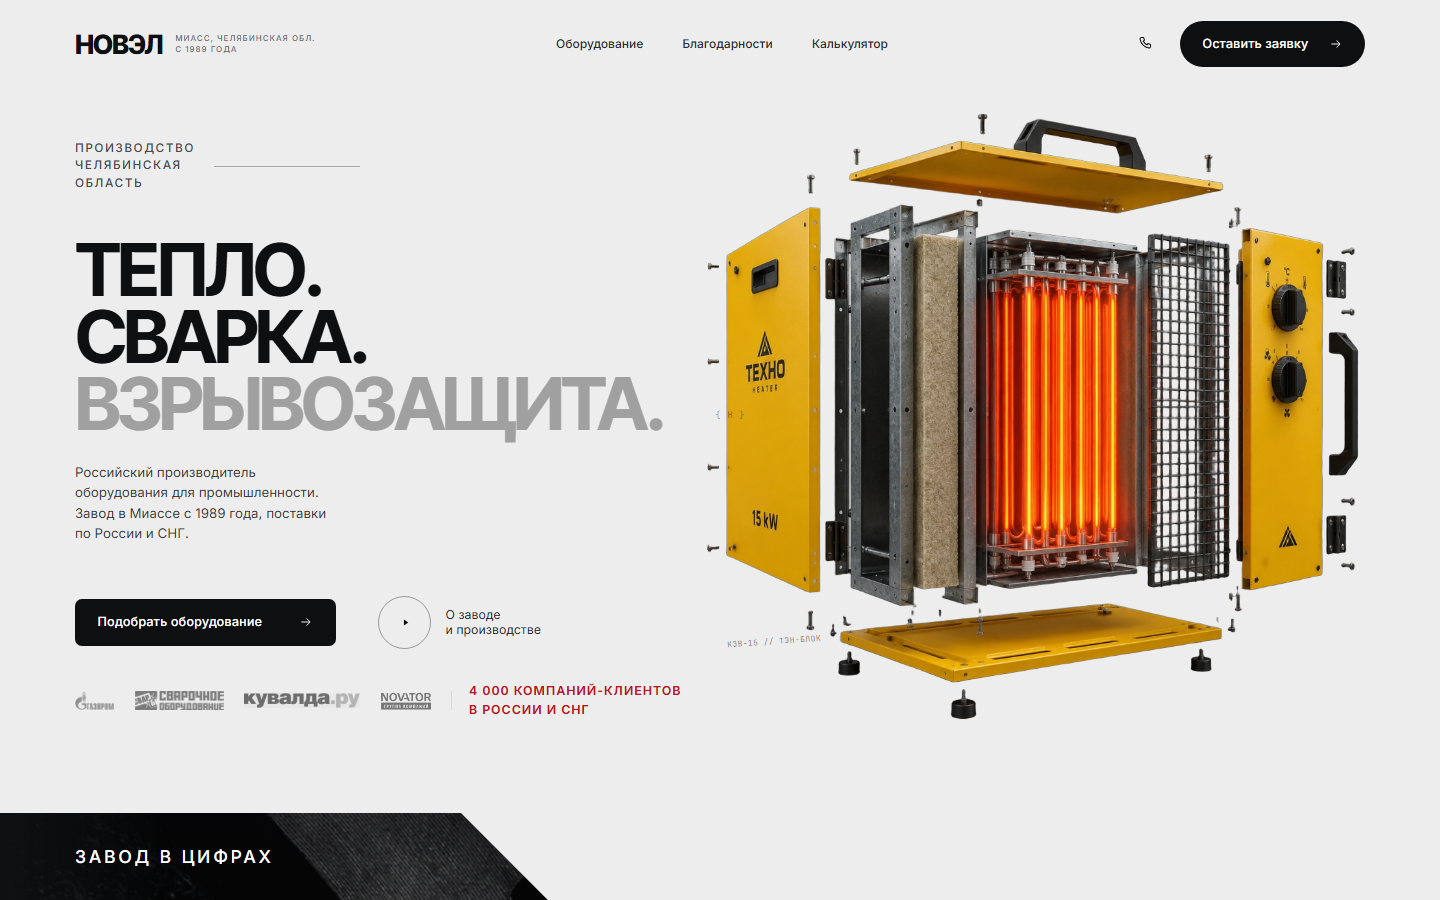
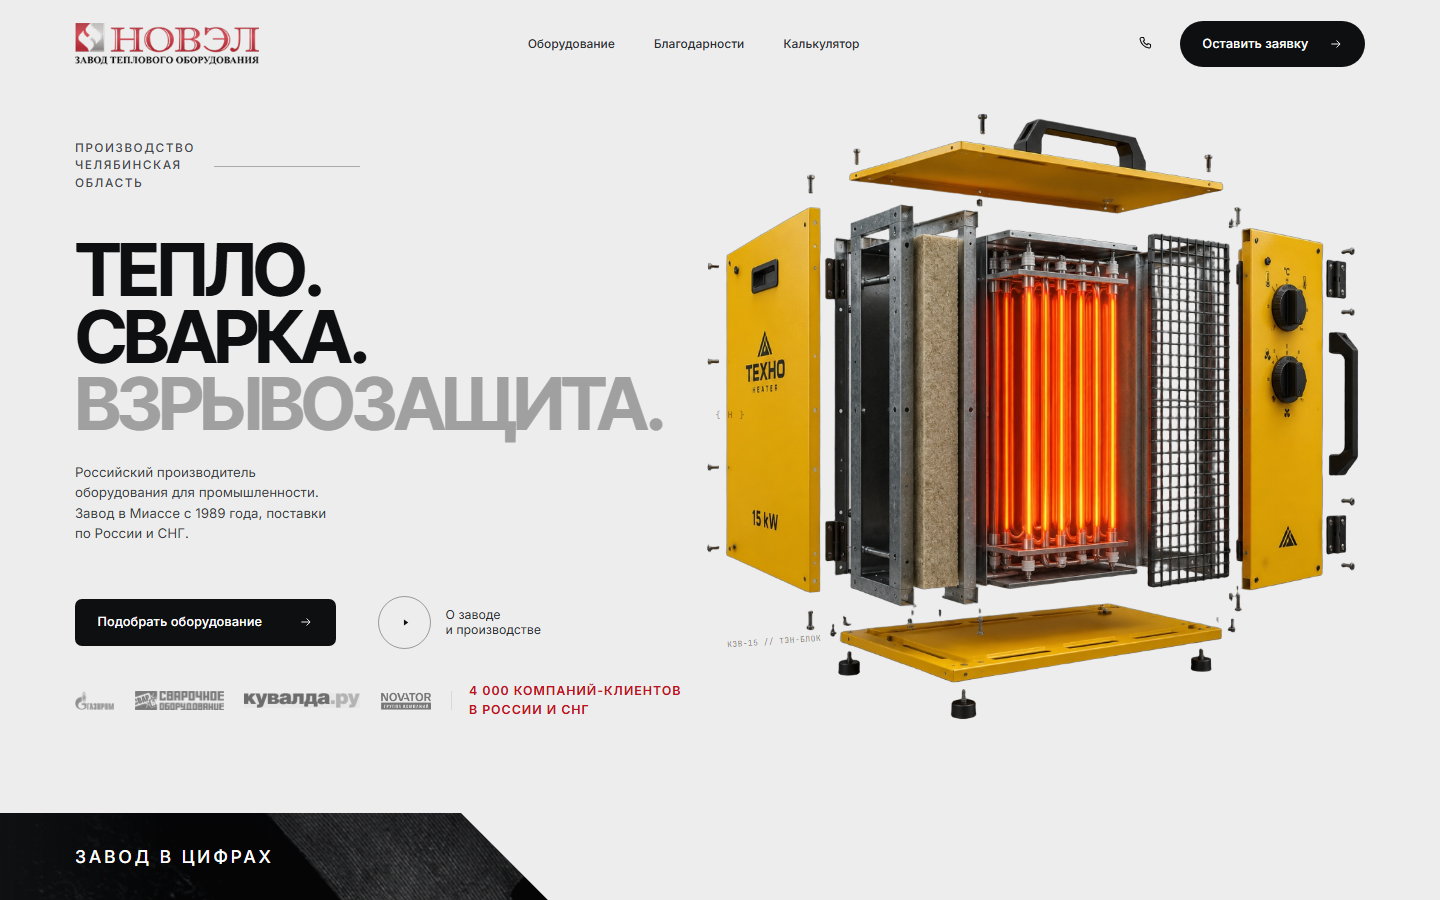
Логотип компании в шапке и подвале обеих страниц
- добавлен assets/img/logo-novel.png (родная альфа, без белой подложки)
- текстовый вордмарк «НОВЭЛ» заменён логотипом: шапка (30–44 px) и подвал (19–27 px)
- подпись под логотипом в подвале — адрес и почта; устранён выход текста в соседнюю колонку

Changed region(s): [[0.0312, 0.0311, 0.2188, 0.0933], [0.375, 0.0311, 0.625, 0.0622]]

diff --git a/assets/css/index.css b/assets/css/index.css
@@ -225,25 +225,29 @@ body.page {
   align-items: center;
   gap: clamp(10px, 0.9vw, 14px);
   flex: none;
+  max-width: 100%;
 }
 
-.brand__mark {
-  font-family: var(--f-display);
-  font-weight: 800;
-  font-size: clamp(21px, 1.85vw, 27px);
-  letter-spacing: -0.045em;
-  line-height: 0.85;
-  color: var(--ink);
+.brand__logo {
+  display: block;
+  height: clamp(30px, 2.9vw, 44px);
+  width: auto;
+}
+
+.brand__logo--foot {
+  height: clamp(19px, 1.75vw, 27px);
+  max-width: 100%;
 }
 
 .brand__sub {
-  font-size: clamp(7px, 0.55vw, 8px);
+  font-size: clamp(7px, 0.54vw, 7.5px);
   font-weight: 500;
-  letter-spacing: 0.13em;
-  line-height: 1.4;
+  letter-spacing: 0.06em;
+  line-height: 1.5;
   text-transform: uppercase;
   color: var(--muted);
-  max-width: 152px;
+  max-width: 100%;
+  overflow-wrap: break-word;
 }
 
 .hdr__nav {
@@ -1183,6 +1187,7 @@ body.page {
 }
 
 .foot__brand {
+  min-width: 0;
   padding: clamp(14px, 1.7vw, 26px) clamp(12px, 1.4vw, 22px) clamp(18px, 2vw, 32px) clamp(6px, 0.8vw, 12px);
   display: flex;
   flex-direction: column;
@@ -1191,13 +1196,17 @@ body.page {
   gap: clamp(12px, 1.4vw, 22px);
 }
 
-.brand--foot .brand__mark {
-  font-size: clamp(17px, 1.5vw, 22px);
+.brand--foot {
+  flex-direction: column;
+  align-items: flex-start;
+  gap: clamp(8px, 0.85vw, 13px);
+  min-width: 0;
 }
 
 .brand--foot .brand__sub {
-  max-width: 88px;
+  max-width: 100%;
 }
+
 
 .foot__nav {
   display: flex;
@@ -1216,6 +1225,7 @@ body.page {
 }
 
 .foot__side {
+  min-width: 0;
   padding: clamp(14px, 1.7vw, 26px) clamp(12px, 1.5vw, 24px) clamp(18px, 2vw, 32px) clamp(12px, 1.4vw, 22px);
   border-left: 1px solid var(--line-soft);
   display: flex;

diff --git a/index.html b/index.html
@@ -19,8 +19,8 @@
   <header class="hdr">
     <div class="hdr__inner shell">
       <a class="brand" href="index.html" aria-label="НОВЭЛ — на главную">
-        <span class="brand__mark">НОВЭЛ</span>
-        <span class="brand__sub">Миасс, Челябинская обл.<br>с 1989 года</span>
+        <img class="brand__logo" src="assets/img/logo-novel.png" width="251" height="57"
+             alt="НОВЭЛ — завод теплового оборудования">
       </a>
 
       <nav class="hdr__nav" aria-label="Основная навигация">
@@ -337,7 +337,8 @@
           <footer class="foot">
             <div class="foot__brand">
               <a class="brand brand--foot" href="index.html">
-                <span class="brand__mark">НОВЭЛ</span>
+                <img class="brand__logo brand__logo--foot" src="assets/img/logo-novel.png" width="251" height="57"
+                     alt="НОВЭЛ — завод теплового оборудования">
                 <span class="brand__sub">Миасс, ул. Лихачёва, 16<br>market@zaonovel.ru</span>
               </a>
               <nav class="foot__nav" aria-label="Навигация в подвале">

diff --git a/calc.html b/calc.html
@@ -20,8 +20,8 @@
   <header class="hdr">
     <div class="hdr__inner shell">
       <a class="brand" href="index.html" aria-label="НОВЭЛ — на главную">
-        <span class="brand__mark">НОВЭЛ</span>
-        <span class="brand__sub">Миасс, Челябинская обл.<br>с 1989 года</span>
+        <img class="brand__logo" src="assets/img/logo-novel.png" width="251" height="57"
+             alt="НОВЭЛ — завод теплового оборудования">
       </a>
 
       <nav class="hdr__nav" aria-label="Основная навигация">
@@ -235,7 +235,8 @@
   <footer class="pfoot">
     <div class="pfoot__inner shell">
       <a class="brand brand--foot" href="index.html">
-        <span class="brand__mark">НОВЭЛ</span>
+        <img class="brand__logo brand__logo--foot" src="assets/img/logo-novel.png" width="251" height="57"
+             alt="НОВЭЛ — завод теплового оборудования">
         <span class="brand__sub">Миасс, ул. Лихачёва, 16<br>market@zaonovel.ru</span>
       </a>
 
